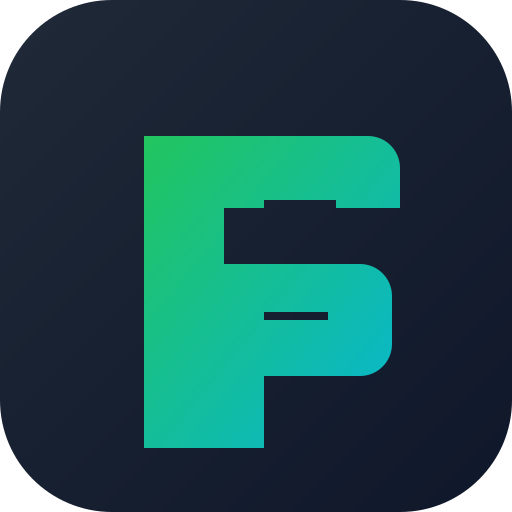
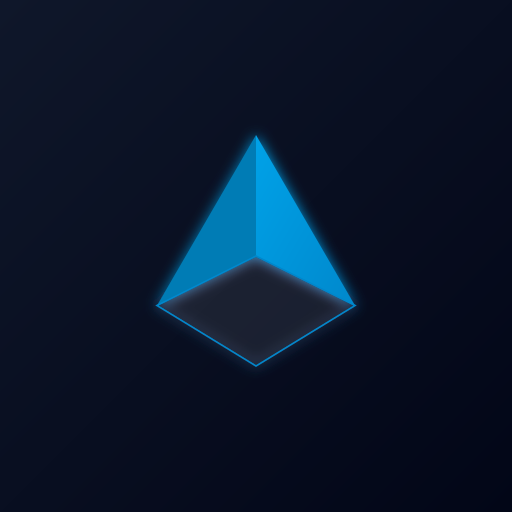
fix: обнови картинку манифеста ton connect

diff --git a/apps/web/app/tonconnect-manifest.json/route.ts b/apps/web/app/tonconnect-manifest.json/route.ts
@@ -32,6 +32,7 @@ export function GET(request: Request) {
       url: origin,
       name: "Flipo",
       iconUrl: `${origin}/tonconnect-icon.png`,
+      iconUrlSmall: `${origin}/tonconnect-icon.svg`,
       termsOfUseUrl: `${origin}/terms`,
       privacyPolicyUrl: `${origin}/privacy`,
     },